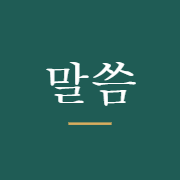
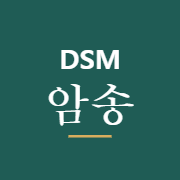
Add files via upload

Changed region(s): [[0.25, 0.2778, 0.7778, 0.7222], [0.3611, 0.75, 0.6389, 0.7778]]

diff --git a/index.html b/index.html
@@ -1,13 +1,13 @@
 <!doctype html>
 <html lang="ko"><head><meta charset="utf-8"><meta name="viewport" content="width=device-width,initial-scale=1,viewport-fit=cover">
-<title>DSM 말씀 암송</title>
+<title>DSM 암송</title>
 <link rel="manifest" href="manifest.webmanifest">
 <link rel="apple-touch-icon" href="icon-180.png">
 <link rel="icon" href="icon-192.png">
 <meta name="theme-color" content="#1f5c55">
 <meta name="apple-mobile-web-app-capable" content="yes">
 <meta name="mobile-web-app-capable" content="yes">
-<meta name="apple-mobile-web-app-title" content="말씀 암송">
+<meta name="apple-mobile-web-app-title" content="DSM 암송">
 <link rel="preconnect" href="https://fonts.googleapis.com">
 <link rel="stylesheet" href="https://fonts.googleapis.com/css2?family=Gowun+Batang:wght@400;700&family=IBM+Plex+Sans+KR:wght@400;500;600&display=swap">
 <style>

diff --git a/sw.js b/sw.js
@@ -1,4 +1,4 @@
-const CACHE = "dsm-amsong-v2";
+const CACHE = "dsm-amsong-v3";
 const CORE = ["./", "./index.html", "./manifest.webmanifest", "./icon-192.png", "./icon-512.png", "./icon-180.png"];
 self.addEventListener("install", e => {
   e.waitUntil(caches.open(CACHE).then(c => c.addAll(CORE)).then(() => self.skipWaiting()));
